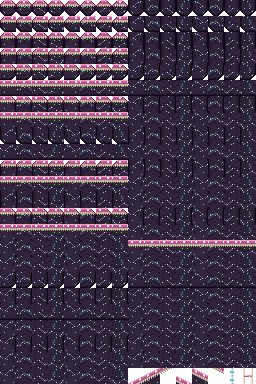
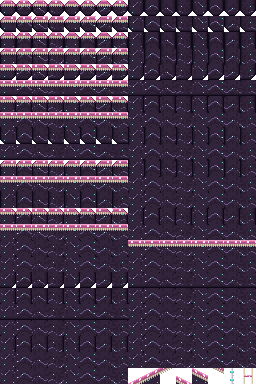
Fewer Grotto glints; comets fade out
Two backdrop and tile polish fixes:

diff --git a/test/10-keys-skillart.ts b/test/10-keys-skillart.ts
@@ -1,3 +1,4 @@
+import { meteorFade } from '../src/backdrop';
 import { seeded, cleanEmote, clearEmotes, EMOTE_ART, EMOTE_MS, EMOTE_PAL, EMOTES, emoteFor, setEmote, buy, NPC_R, COIN_LIFE, coinValue, drops, FLY_T, flying, PRICES, RESPEC_PRICES, shop, shopStock, START_POTIONS, trainer, TRAINER_ITEMS, wallet, areaOf, isPathEnd, isTown, lastTown, MAP_AREAS, mobLevel, nextPlace, PATHS, pathsFrom, pathsInto, placeKey, placeName, samePlace, START, TOWNS, townDepth, type Place, ELITE, FX_DUR, MOB_TYPES, P, SKILLS, VARIANT_CHANCE, game, gotoPlace, player, spawnMob, spawnWave, SPAWN_SPREAD, USE_FLASH, confirmInput, confirmUi, cleanName, clearShots, dueShots, ghostFx, NAME_MAX, queueShot, randomName, SHOT_GAP, tintFor, FONT_CHARS, textWidth, fontPng, ACTIONS, actionFor, binds, bindKey, capture, cleanBinds, resetBinds, clearPressed, keyName, normalize, REPEAT_DELAY, REPEAT_RATE, setKey, setLayout, update, advance, tick, CHASE_TURN, activeSkill, expBar, MAX_LEVEL, passiveBonus, rank, recalcStats, shotCount, skillRows, spendSkill, STAT_GAIN, surfaceYAt, areaMobs, floorMobs, groupSize, pickVariant, LAYOUTS, type Layout, makeShape, SHAPES, TOWN_MIN_H, DRAWN, hasMobArt, HURT, MOB_ART, paintMob, VARIANT_ART, miniRect, MINI_SCALE, toMini, CAM, TILE, WORLD, ANIM_RATE, BREATH, mobFrame, BAR_SHOW, critChance, critMult, critOverflowPoints, damage, MISS_IFRAMES, missChance, DYING_MAX, HITSTUN, killMob, NUM_GAP, NUM_LINE, passiveDmg, barrageTargets, cast, cdSlot, delayTime, rushHolding, useTime, CASTS, MOB_SOUNDS, GHOST_RISE_T, ghostRise, getPlayerDeath, PLAYER_DEATH_T, TOMB_DROP_T, tombDrop, fmtNum, BOSS, bossAlive, bossName, bossType, hurtPlayer, quakes, cleanLook, DEFAULT_LOOK, LOOK_COUNTS, lookPalette, myLook, setMyLook, stepLook, stylist, stylistKey, stylistTap, stylistBox, ST_ROWS_W, ST_TOP, styled, DECOR_FRAMES, paintDecor, paintSmoke, SMOKE, TOWN_PALS, type DecorKind, NPC_FRAMES, npcFrame, npcRows, board, boardOffers, boardRows, loadQuests, QUEST_MAX, questKill, quests, apply, clearSave, hasSave, load, save, snapshot, boost, BOOST, remoteKills, resetBoost, takeBatch, waveRate, canConnect, hourStamp, net, newCode, parseCode, roomId, activate, disabled, autoChannel, channelChoices, initMenu, items, menu, menuKey, menuTap, menuText, MENU_ROW, MENU_TOP, MENU_W, MENU_X, BLOCK_VARIANTS, hash, tilesetFor, TILESETS, TOP_H, TOP_W, BOT_H, variantAt, PROP_H, PROP_W, propAt, PROPS, BACKDROPS, particlesAt, expToNext, killsToLevel, mobExp, dev, devStops, BASIC, clearUnlocks, isBasic, isUnlocked, offeredAt, TOWN_LOOKS, openStylist, STYLIST_ROWS, devInput, windowOpen, addChat, bubbleFor, bubbleMs, chat, CHAT_MAX, cleanChat, clearBubbles, LOG_SHOW_MS, logLines, SELF, wrap, say, archerFrame, climbPhase, DIVE_PITCH, GRIDS, pitch, POSE_FPS, poseCycle, ingest, INTERP_MS, newTrack, POSES, Recorder, SEND_MS, view, type Packet, keysKey, keysUi, KEY_ROWS, pet, PET, achKey, achUi, ACHIEVEMENTS, bump, clearAchievements, cleanRecord, GOLD_OUTFIT, isDone, record, runBonus, visitArea, startRun, DEFS, startsLearned, clearGear, equip, gear, gearDmg, gearFor, gearSoak, gearDrops, READY_FLASH, cameraTarget, mobBounds, coinMult, FLOOR_MODS, grip, ICE_GRIP, modLine, rollMods, bag, BAG_SIZE, unequip, wear, STAT_KEYS, generateFloor, TOWN_PLANS, corpses, DEATH_T, DEATHS, deathOf, deathPose, closeLinks, linkable, linkHeld, bakeDeathSheet, DEATH_FRAMES, deathFrame, localPose, applyStatus, areaStatus, CHILL_SLOW, DOT, MAX_STACKS, slowFactor, STATUS, updateStatus, cleanSettings, DEFAULT_SETTINGS, openSettings, settings, settingsBox, settingsKey, settingsTap, settingsUi, SET_ROW, SET_TOP, SET_W, SETTING_ROWS, VOLUME_MAX, type Mob, type PauseMenu, type Platform, type SkillKey, climb, check, release, step, tap, landLeap, ground, arena, dummy } from './harness';
 // --- key rebinding: swaps, what a physical key drives, storage, the window ---
 {
@@ -56,4 +57,20 @@ import { seeded, cleanEmote, clearEmotes, EMOTE_ART, EMOTE_MS, EMOTE_PAL, EMOTES
   arena(30); player.ranks['air-q'] = true; ready(); air(); tap('q'); step(4); // past the windup
   check('the Meteor Dive draws its dive pose', player.diving && localPose() === 'dive');
   release();
+}
+
+// --- backdrop and tile polish ---
+{
+  // Mushroom Grotto: the glowing beads and spores in its loam are sparse (~70% fewer than they were: 54 over these 8 tiles)
+  const g = TILESETS['Mushroom Grotto'];
+  let glints = 0;
+  for (let v = 0; v < 8; v++) for (let y = 0; y < 16; y++) for (let x = 0; x < 16; x++) if (['#9ff3ea', '#5ad8c8'].includes(g.fill(x, y, v) ?? '')) glints++;
+  check('the Mushroom Grotto loam has only a few blue glints', glints > 0 && glints <= 16, `${glints}`);
+  // Starfall Observatory (and Thistledown, under the same sky): comets fade out instead of blinking off
+  const pt = BACKDROPS['Starfall Observatory'].particles!;
+  check('comets are meteors that flare up, then fade out to nothing before they vanish',
+    pt.kind === 'meteors' && meteorFade(0) === 0 && meteorFade(0.05) === 1 && meteorFade(0.3) < meteorFade(0.15) && meteorFade(0.499) < 0.01);
+  // a comet's head is drawn in one of its colours with the fade as its alpha (tails stay under 25%)
+  const heads = (t: number): number[] => particlesAt(pt, t, 320, 240).filter((q) => pt.cols.includes(q.col.slice(0, 7)) && q.col.length === 9).map((q) => parseInt(q.col.slice(7), 16));
+  check('...drawn fading', [0.3, 1.1, 2.7, 5.2].some((t) => heads(t).some((a) => a > 70 && a < 255)));
 }

diff --git a/src/backdrop.ts b/src/backdrop.ts
@@ -290,6 +290,13 @@ export const backdropFor = (name: string): Backdrop => BACKDROPS[name] ?? BACKDR
    Stateless: each particle's position is a function of time and its
    index, in view space, so nothing needs updating or syncing. */
 export interface Particle { x: number; y: number; col: string; w: number; h: number }
+/** A meteor's run, in its cycle's units (it's gone for the rest of the cycle). */
+const METEOR_LIFE = 0.5;
+/** A meteor's brightness through its run: a quick flare, then a long fade to nothing. */
+export const meteorFade = (ph: number): number =>
+  Math.max(0, Math.min(1, ph / 0.05, (METEOR_LIFE - ph) / (METEOR_LIFE - 0.1)));
+/** 0-1 as a two-digit hex alpha. */
+const alphaHex = (a: number): string => Math.round(Math.max(0, Math.min(1, a)) * 255).toString(16).padStart(2, '0');
 export function particlesAt(pt: Particles, t: number, w: number, h: number): Particle[] {
   const out: Particle[] = [];
   const mod = (a: number, m: number): number => ((a % m) + m) % m;
@@ -312,10 +319,13 @@ export function particlesAt(pt: Particles, t: number, w: number, h: number): Par
       case 'glints': if (mod(t * 0.6 + c * 5, 3) > 0.35) continue; break; // brief twinkles
       case 'meteors': {
         const ph2 = mod(t * 0.25 + c * 3, 3); // each falls for a moment every few seconds
-        if (ph2 > 0.5) continue;
+        if (ph2 > METEOR_LIFE) continue;
         x = mod(a * w + ph2 * 160, w); y = b * h * 0.6 + ph2 * 80;
-        for (let k = 1; k < 8; k++) out.push({ x: x - k * 2, y: y - k, col: '#ffffff40', w: 1, h: 1 });
-        break;
+        // it flares up fast, then fades out as it falls, tail and all
+        const f = meteorFade(ph2);
+        for (let k = 1; k < 8; k++) out.push({ x: x - k * 2, y: y - k, col: '#ffffff' + alphaHex(f * 0.25 * (1 - k / 8)), w: 1, h: 1 });
+        out.push({ x, y, col: col.slice(0, 7) + alphaHex(f), w: pw, h: ph });
+        continue;
       }
     }
     out.push({ x, y, col, w: pw, h: ph });

diff --git a/src/tilesets/mystic.ts b/src/tilesets/mystic.ts
@@ -28,8 +28,8 @@ const grotto: Tileset = {
     let col = hash(x >> 1, y >> 1, v + 110) < 0.3 ? '#2a1e30' : '#32243a';
     const thread = Math.round(4 + v * 3 + 2 * Math.sin(x * 0.45 + v)) % 16;
     if (y === thread && hash(x, v, 111) < 0.8) col = '#6a5a8a';
-    if (y === thread && x % 5 === v) col = '#9ff3ea';
-    if (hash(x, y, v + 112) < 0.02) col = '#5ad8c8'; // a spore
+    if (y === thread && x % 5 === v && hash(x, y, v + 115) < 0.45) col = '#9ff3ea'; // a glowing bead, now and then
+    if (hash(x, y, v + 112) < 0.006) col = '#5ad8c8'; // a spore
     return col;
   },
   surface(x, d, v) {

diff --git a/TODO.md b/TODO.md
@@ -3,10 +3,8 @@
 - (art) Create art for the Bubble skill.
 - (art) Give portals a more oval, swirling, rounded look and animation.
 - (art) Upgrade the player sprite to higher quality with more distinct features between the male and female versions; remove the long hair from the male.
-- (art) Reduce the blue sparkles in the Mushroom Grotto floor tiles by ~70%.
 - (art) The tombstone looks antialiased — give it a grittier, pixel-art look with a crisp outline.
 - (design) Rename Glide.
-- (art) The comets in the background of the Observatory and Thistledown should fade out.
 - Reorganize the test suite for concision (~4,265 LOC / 896 checks → ~3,600 LOC / ~500 checks), in three steps, cheapest first:
   - Collapse multi-check blocks to one `check()` per behaviour, keeping the values in the template string so a failure still names what broke. Checks are 1,124 of the 4,265 lines; this is ~500 LOC of the saving. Biggest wins: `11-deaths.ts` (527 LOC) and `07-menu-polish.ts` (474).
   - Replace `harness.ts`'s ~100 hand-listed re-exports with ~12 `export * from '../src/<module>'` lines (~164 LOC → ~45).
